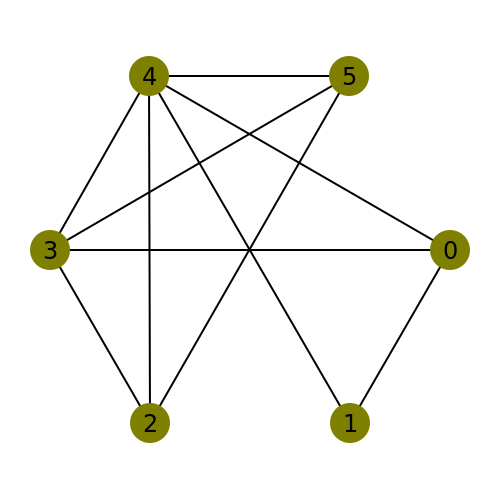
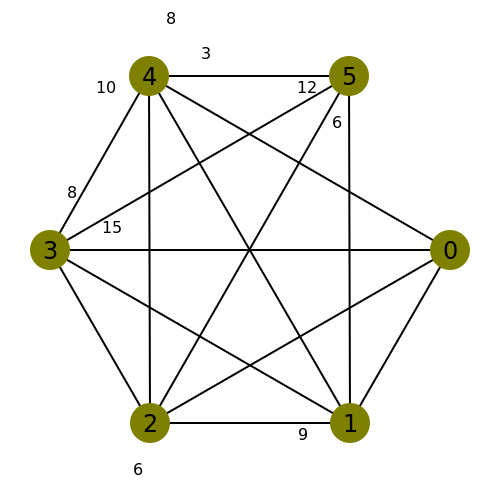
Pendiente para etiquetas de aristas

diff --git a/tarea09/src/ldijkstra.cpp b/tarea09/src/ldijkstra.cpp
@@ -43,7 +43,7 @@ double space=2*M_PI/(double)n;//Cuantos nodos se dibujaran
   cr=cairo_create(surface);
   cairo_set_line_width(cr,2);
 /*Dibujo del grafo*/
-  dibujaVertices(cr,G,n); 
+  dibujaAristas(cr,G,n); 
   dibujaNodos(cr,n,colorn);
 /*Fin dibujado de grafo*/
   cairo_surface_write_to_png(surface,"migrafo.png");
@@ -63,7 +63,7 @@ void creaLinea(cairo_t *cr, int x1, int y1, int x2, int y2){
   cairo_stroke(cr);
 }
 
-void dibujaVertices(cairo_t *cr, int **G, int n){
+void dibujaAristas(cairo_t *cr, int **G, int n){
   double space=2*M_PI/(double)n;//Cuantos nodos se dibujaran
   int nx, ny;
   int nnx, nny;
@@ -79,7 +79,8 @@ void dibujaVertices(cairo_t *cr, int **G, int n){
       if(G[i][j]!=0){
         creaLinea(cr,nx,ny,nnx,nny);
         cairo_set_source_rgb (cr,0,0,0);
-        cairo_move_to(cr,(nx+20*(nnx-nx)),(ny+20*(nny-ny)));
+        m=calculaPendiente(nx,ny,nnx,nny);
+        cairo_move_to(cr,(nx+30*m),(ny+30/(-m)));
         sprintf(weinodo,"%d",G[i][j]);
         cairo_show_text(cr,weinodo);
 

diff --git a/tarea09/src/ldijkstra.hpp b/tarea09/src/ldijkstra.hpp
@@ -14,6 +14,6 @@ int drawGraph(int **G, int n, int tipo);
 void creaNodo(cairo_t *cr,int x0,int y0,double *color);
 void creaLinea(cairo_t *cr,int x1,int y1, int x2, int y2);
 void dibujaNodos(cairo_t *cr, int n,double *color);
-void dibujaVertices(cairo_t *cr,int **G , int n);
+void dibujaAristas(cairo_t *cr,int **G , int n);
 double calculaPendiente(int x1, int y1, int x2, int y2);
 #endif 
